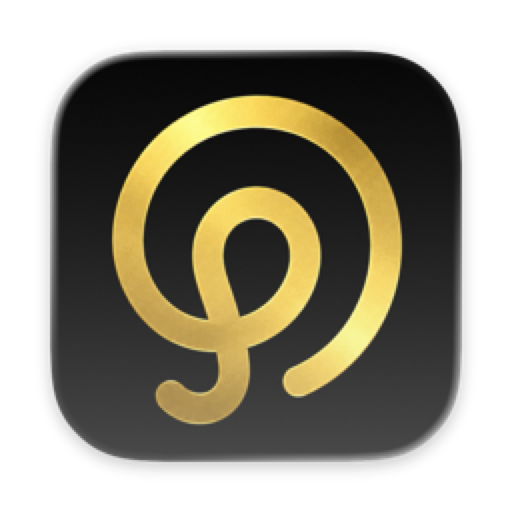
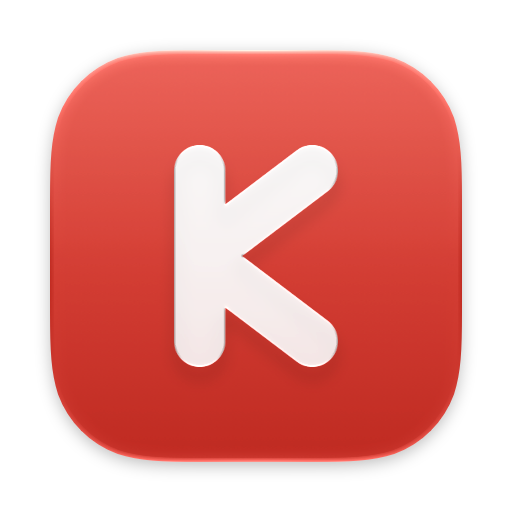
docs(changelog): add the 0.3.25 release notes
Also replaces docs/icon.png, the README and AltStore icon, with the
new K monogram as macOS 26 renders it.

diff --git a/CHANGELOG.md b/CHANGELOG.md
@@ -7,6 +7,58 @@
 `---` 分隔，随后是完整的**中文**部分（`### 新增` / `### 修复` / `### 改进`）。英文块与中文块
 的条目一一对应、顺序一致。（0.3.19 起采用此双语分块格式；更早的版本沿用旧的中英交替格式。）
 
+## 0.3.25 - 2026-11-03
+
+### Added
+
+- **iOS + macOS**: a new app icon — a geometric K monogram in white on the app's vermilion accent, drawn as an Icon Composer bundle so macOS 26 renders it with the system's glass treatment (#173).
+- **macOS**: a native menu bar player — cover, title, artist, elapsed time and a like button, with play/pause, previous, next and Settings in its overflow menu. Off by default; turn it on under Settings → 通用 → 在菜单栏显示. Thanks @yamakze (#155, closes #132).
+- **iOS**: a landscape "immersive lyrics" (karaoke) player style — centred word-by-word lyrics on a slowly drifting blurred-cover backdrop, with the track info bottom-left and the transport bottom-right; pick it under Settings → 外观 → 横屏播放页样式 (defaults to the classic two-column layout). Thanks @yxxbc (#167).
+- **iOS**: iPhone Duo support — track rows and the album/artist pages follow the inner display's regular size classes, and shelves stop at the trailing status-bar column instead of drawing into it (#170).
+- **iOS**: a TestFlight build configuration (`make testflight`); TestFlight and App Store builds skip the launch-time update check and the TrollStore / IPA update controls in Settings (#172).
+
+### Fixed
+
+- **iOS + macOS**: editing a search query and searching the previous text again no longer shows an empty "没有找到相关结果" — responses for an older query are dropped, loading is tracked per tab, and a failed request is retried on the next submit instead of being cached as empty (#162, fixes #159).
+- **macOS**: the search field inside a playlist (e.g. 我喜欢的音乐) no longer loses focus after every typed or deleted character — filtering now refreshes the song rows instead of reloading the whole table. Based on the analysis by @menglongyanyu (#156, fixes #142).
+- **iOS**: tapping the Dynamic Island / system Now Playing brings the app to the foreground more reliably — playback now runs under an `MPNowPlayingSession` bound to the player, re-claimed on resume; installs that cannot activate a session fall back to the shared Now Playing centers so lock-screen and Control Center controls still appear. Thanks @yxxbc (#167, #171; #40, #124).
+- **iOS**: the bottom transport buttons no longer shift sideways for a moment when the track changes, and old and new lyrics no longer cross-fade on top of each other (#167, #171).
+- **macOS**: the CoreAudio overload callback is now delivered asynchronously, removing a rare deadlock while the audio engine is torn down or restarted. Thanks @yamakze (#153).
+
+### Improved
+
+- **macOS**: the app is about 57% smaller (bundle 205 → 88 MB) — the ~107 MB Metal kernels for stem separation ship compressed and are unpacked on first use, and release builds strip local symbols with the dSYM kept for crash symbolication. Thanks @yamakze (#153).
+- **macOS**: progressive playback no longer keeps the not-yet-decoded part of a download in memory — it is read back from the on-disk cache mirror in 32 KiB chunks, so peak memory stays flat regardless of file size. Thanks @yamakze (#164, #161).
+- **macOS**: switching tracks quickly cancels the previous track's source resolution, lyrics, prefetch download and analysis instead of letting them finish in the background; a shared download is only cancelled once its last consumer leaves. Thanks @yamakze (#165, #161).
+- **macOS**: with AutoMix off, the next track is no longer prefetched and analysed during plain playback; turning AutoMix on resumes the preparation. Thanks @yamakze (#166, #161).
+- **iOS**: tighter browsing pages — less space between sections and between a section title and its cards, single-line shelf titles, and no blank band under each shelf (#170).
+
+---
+
+### 新增
+
+- **iOS + macOS**：全新 App 图标——朱红底色上的白色几何 K 字母，以 Icon Composer 包提供，macOS 26 会用系统玻璃效果渲染（#173）。
+- **macOS**：原生菜单栏播放器——封面、歌名、歌手、播放时间和喜欢按钮，播放/暂停、上一首、下一首与设置入口收纳在更多菜单中。默认关闭，在 设置 → 通用 → 在菜单栏显示 开启。感谢 @yamakze（#155，关闭 #132）。
+- **iOS**：横屏「沉浸歌词（卡拉 OK）」播放页样式——逐字扫光的歌词居中显示，背景是缓慢漂移的模糊封面，左下角曲目信息、右下角播放控制；在 设置 → 外观 → 横屏播放页样式 中选择（默认仍为经典双栏）。感谢 @yxxbc（#167）。
+- **iOS**：适配 iPhone Duo——歌曲行和专辑、歌手页面按内屏的 regular 尺寸类布局，推荐栏在右侧状态栏列处截止，不再画进去（#170）。
+- **iOS**：新增 TestFlight 构建配置（`make testflight`）；TestFlight 与 App Store 版本不再在启动时检查更新，设置里也不再显示 TrollStore / IPA 更新入口（#172）。
+
+### 修复
+
+- **iOS + macOS**：修改搜索词后再搜回之前的文本不再显示空的「没有找到相关结果」——旧搜索词的响应会被丢弃，加载状态按标签页分别记录，失败的请求下次提交时会重试而不是被当作空结果缓存（#162，修复 #159）。
+- **macOS**：歌单内（如 我喜欢的音乐）的搜索框不再每输入或删除一个字符就失去焦点——过滤时只刷新歌曲行而不再整表重载。基于 @menglongyanyu 的分析（#156，修复 #142）。
+- **iOS**：点击灵动岛 / 系统正在播放更可靠地把 App 拉回前台——播放现在挂在绑定到播放器的 `MPNowPlayingSession` 下，恢复播放时会重新声明；无法激活会话的安装会回退到共享的正在播放中心，锁屏和控制中心的控制按钮仍会出现。感谢 @yxxbc（#167、#171；#40、#124）。
+- **iOS**：换歌瞬间底部控制按钮不再横向跳动，新旧歌词也不再交叉淡入淡出叠在一起（#167、#171）。
+- **macOS**：CoreAudio 过载回调改为异步投递，消除音频引擎销毁或重启时偶发的死锁。感谢 @yamakze（#153）。
+
+### 改进
+
+- **macOS**：App 体积缩小约 57%（包体 205 → 88 MB）——人声分离用的约 107 MB Metal 内核改为压缩内置、首次使用时解压，Release 构建剥离本地符号并单独保留 dSYM 以便崩溃符号化。感谢 @yamakze（#153）。
+- **macOS**：边下边播不再把尚未解码的下载内容留在内存里——改为从磁盘缓存镜像按 32 KiB 分块读回，峰值内存不再随文件大小增长。感谢 @yamakze（#164、#161）。
+- **macOS**：快速切歌会取消上一首的音源解析、歌词、预取下载和分析，不再让它们在后台跑完；共享的下载只在最后一个使用者退出时才取消。感谢 @yamakze（#165、#161）。
+- **macOS**：关闭 AutoMix 时，普通播放不再预取和分析下一首；开启后恢复准备流程。感谢 @yamakze（#166、#161）。
+- **iOS**：浏览页面更紧凑——板块之间、板块标题与卡片之间的间距缩小，推荐栏标题单行显示，每个推荐栏下方不再留空白带（#170）。
+
 ## 0.3.24 - 2026-10-28
 
 ### Fixed
